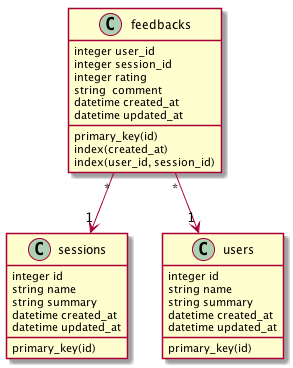
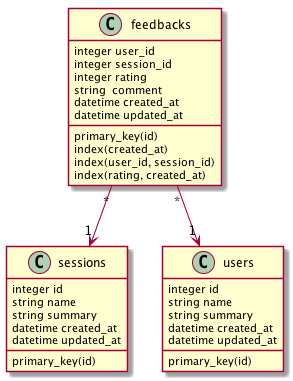
Updating uml diagram and readme.md

Changed region(s): [[0.0, 0.0, 0.7986, 0.9864], [0.5529, 0.5679, 1.0, 0.9864]]

diff --git a/README.md b/README.md
@@ -3,6 +3,7 @@
 ## Dependencies
 
 * Ruby 2.2
+
 This project has been created using ruby 2.2.x You can download it using a package manager or the recommenced [rvm](https://rvm.io/)
 
 Once ruby is installed, you will need to run `gem install bundler` and then `bundle install`. This will install all the project dependencies listed in the Gemfile, including rails
@@ -30,7 +31,10 @@ rake db:seed
 The migrations will create 3 tables as shown in the diagram<br />
 ![alt text](db/schema.png "Description goes here")
 
-The table feedbacks contains 2 indexes, one composite index on user_id and session_id and one unique index for created_at.
+The table feedbacks contains 3 indexes:
+  * Composite index on user_id and session_id.
+  * Composite index on rating and created_at.
+  * Unique index for created_at.
 
 ## How to run the tests
 
